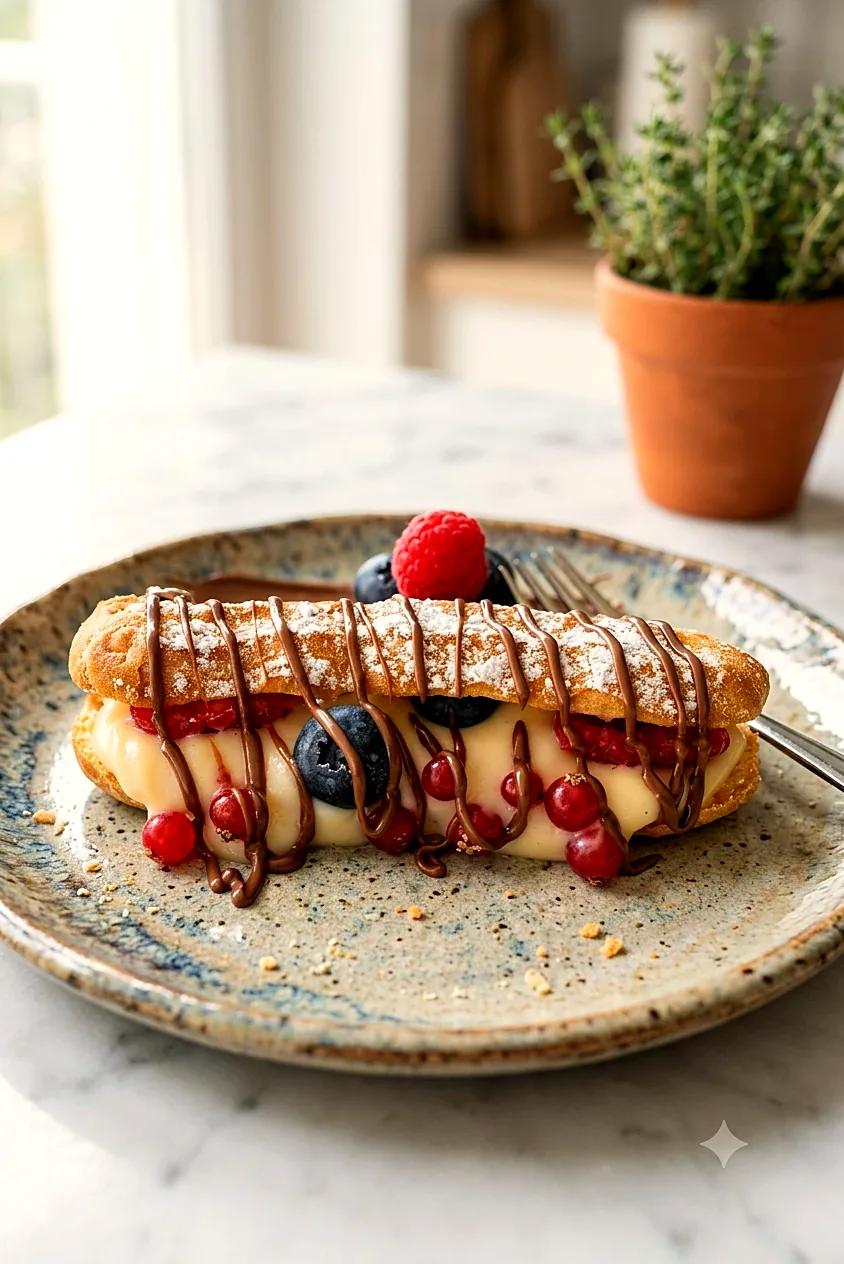
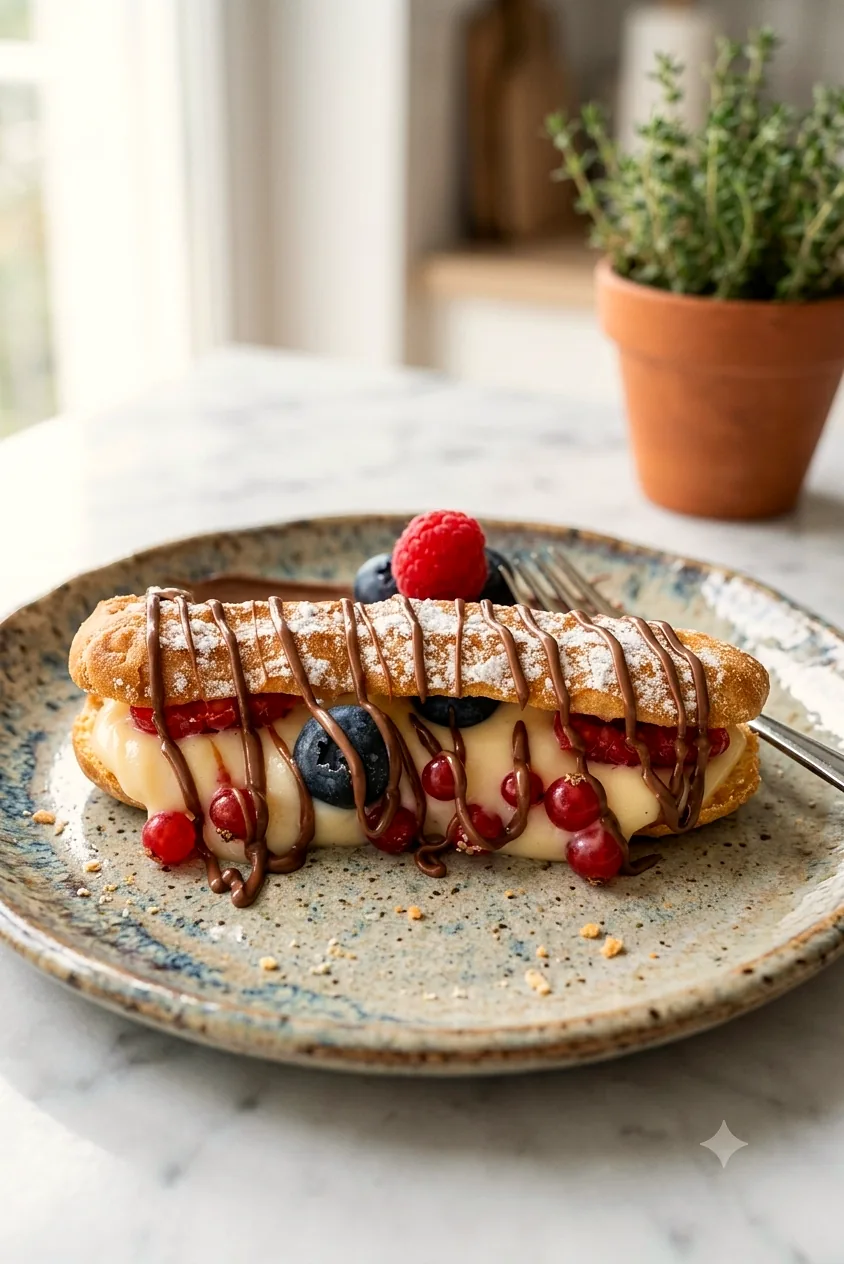
Soften product photo grading — less "studio stock", more grain
The previous pass (heavier contrast/saturation boost, strong unsharp
mask) pushed these toward glossy stock-photo territory, working
against the "hecho en casa" story the rest of the site tells. Pulls
contrast and saturation way back, lightens the sharpening, and adds a
subtle film-like grain so each shot reads as a real capture.

This is a polish-level fix, not the real one — these still aren't
actual photos from Suzan's kitchen. Real photos from the client remain
the right long-term fix.

Claude-Session: https://claude.ai/code/session_01MSnGieFbkp9mECTvhtS4Wc

diff --git a/maison-suzi/tools/process_photos.py b/maison-suzi/tools/process_photos.py
@@ -2,7 +2,7 @@
 """Dev-time only: color-grade and export the client's real product photos as WebP.
 Not shipped to production; assets/img/*.webp are the deliverable."""
 import os
-from PIL import Image, ImageEnhance, ImageOps, ImageFilter
+from PIL import Image, ImageEnhance, ImageOps, ImageFilter, ImageChops
 
 SRC = os.path.join(os.path.dirname(__file__), "..", "assets", "photos", "source")
 DST = os.path.join(os.path.dirname(__file__), "..", "assets", "img")
@@ -23,14 +23,24 @@ def grade(im: Image.Image) -> Image.Image:
     im = ImageOps.exif_transpose(im).convert("RGB")
     # Subtle warmth shift toward the site's gold/chocolate palette
     r, g, b = im.split()
-    r = r.point(lambda v: min(255, int(v * 1.035)))
-    b = b.point(lambda v: int(v * 0.965))
+    r = r.point(lambda v: min(255, int(v * 1.025)))
+    b = b.point(lambda v: int(v * 0.975))
     im = Image.merge("RGB", (r, g, b))
-    im = ImageEnhance.Contrast(im).enhance(1.08)
-    im = ImageEnhance.Color(im).enhance(1.14)
-    im = ImageEnhance.Brightness(im).enhance(1.02)
-    im = im.filter(ImageFilter.UnsharpMask(radius=1.4, percent=60, threshold=2))
+    # Softer than before on purpose: the old settings (contrast 1.08, color 1.14,
+    # a strong unsharp pass) pushed these into "glossy stock photo" territory,
+    # which reads as generic rather than "hecho en casa". Less punch, more grain.
+    im = ImageEnhance.Contrast(im).enhance(1.03)
+    im = ImageEnhance.Color(im).enhance(1.04)
+    im = im.filter(ImageFilter.UnsharpMask(radius=1.2, percent=28, threshold=3))
+    im = add_grain(im)
     return im
+
+def add_grain(im: Image.Image, sigma: int = 18, amount: float = 0.10) -> Image.Image:
+    """A light film-like grain so the photo reads as a real capture instead of
+    a too-clean render — subtle, felt more than seen."""
+    noise = Image.effect_noise(im.size, sigma).convert("RGB")
+    textured = ImageChops.overlay(im, noise)
+    return Image.blend(im, textured, amount)
 
 def resize_cap(im: Image.Image, max_edge: int) -> Image.Image:
     w, h = im.size
